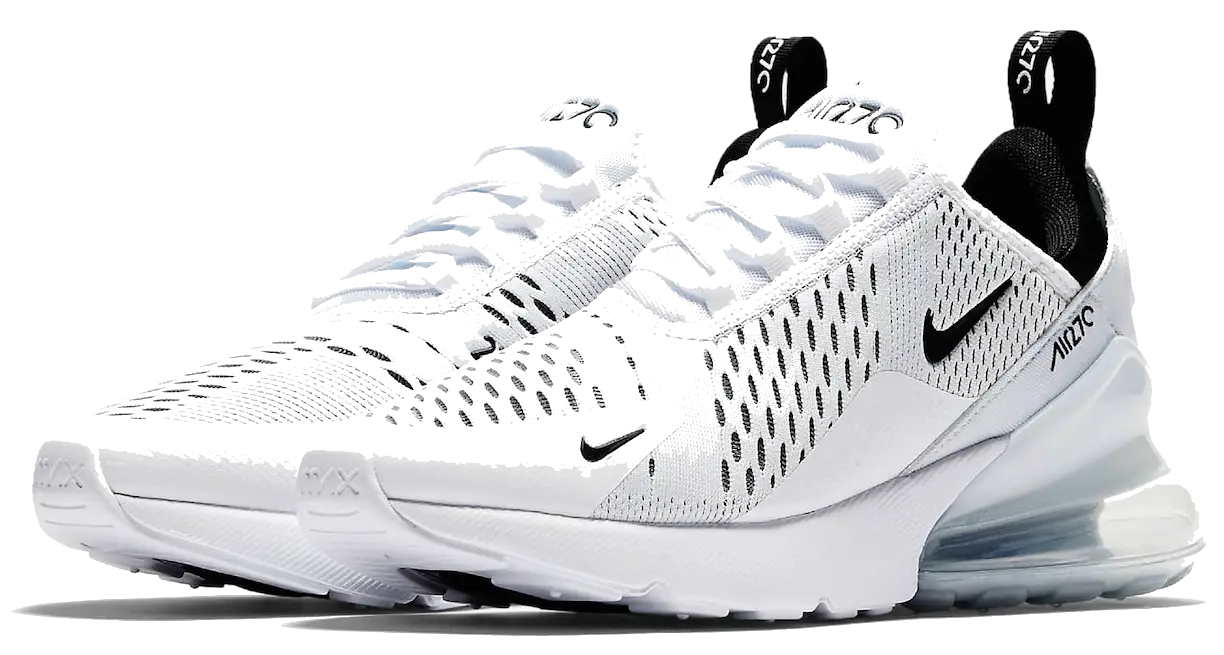
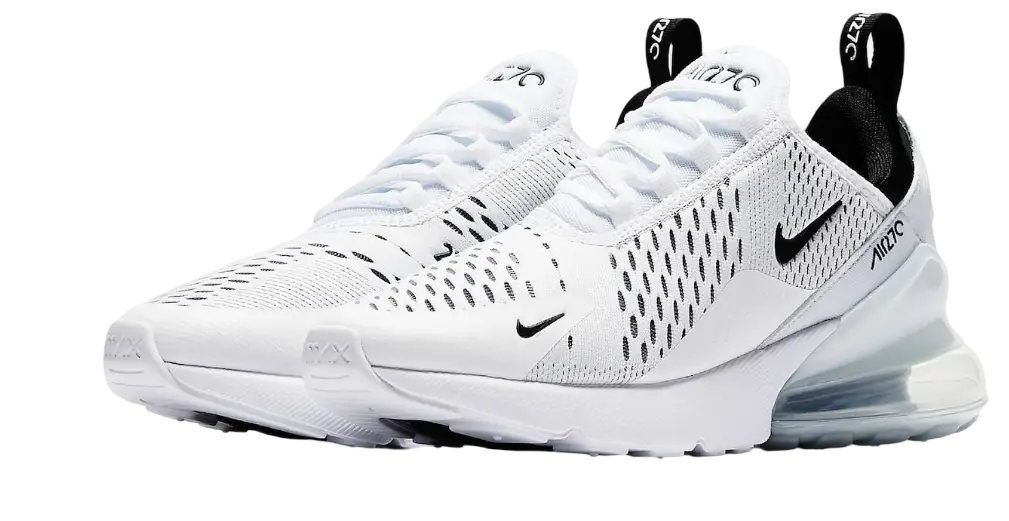
hero section adjustments

diff --git a/src/components/ProductSlider.jsx b/src/components/ProductSlider.jsx
@@ -2,7 +2,6 @@ import { useEffect, useRef, useState } from 'react';
 import NewProductsCard from './NewProductsCard';
 
 export const ProductSlider = ({ products }) => {
-  const marqueeRef = useRef(null);
   const containerRef = useRef(null);
   const [isHovering, setIsHovering] = useState(false);
   const animationRef = useRef(null);
@@ -11,10 +10,17 @@ export const ProductSlider = ({ products }) => {
   const scrollBackTimeoutRef = useRef(null);
   const isScrollingBackRef = useRef(false);
   const lastCardRef = useRef(null);
+  const isPausedRef = useRef(false);
+  const lastTimeRef = useRef(0);
+  const scrollSpeed = 1; // Adjust scroll speed here
 
   // Animation logic
-  const animate = () => {
-    if (isHovering || isScrollingBackRef.current) return;
+  const animate = (timestamp) => {
+    if (!lastTimeRef.current) lastTimeRef.current = timestamp;
+    const deltaTime = timestamp - lastTimeRef.current;
+    lastTimeRef.current = timestamp;
+
+    if (isScrollingBackRef.current || isPausedRef.current) return;
 
     const container = containerRef.current;
 
@@ -23,12 +29,13 @@ export const ProductSlider = ({ products }) => {
     const lastCardRect = lastCard?.getBoundingClientRect();
     const containerRect = container.getBoundingClientRect();
 
-    // Check if last card is fully visible (with 20px margin)
+    // Check if last card is fully visible (with 10px margin)
     const isLastCardVisible = lastCardRect && (lastCardRect.right <= containerRect.right - 10);
 
-    if (isLastCardVisible) {
+    if (isLastCardVisible && !isHovering) {
       // Pause for 3 seconds at the end
       if (!pauseTimeoutRef.current) {
+        isPausedRef.current = true;
         pauseTimeoutRef.current = setTimeout(() => {
           isScrollingBackRef.current = true;
           // Smoothly scroll back to start
@@ -41,21 +48,46 @@ export const ProductSlider = ({ products }) => {
           scrollBackTimeoutRef.current = setTimeout(() => {
             scrollPositionRef.current = 0;
             isScrollingBackRef.current = false;
+            isPausedRef.current = false;
             pauseTimeoutRef.current = null;
-            animationRef.current = requestAnimationFrame(animate);
-          }, 1000); // Match this with your scroll duration
+            lastTimeRef.current = 0;
+            if (!isHovering) {
+              animationRef.current = requestAnimationFrame(animate);
+            }
+          }, 1000);
         }, 3000);
       }
       return;
     }
 
-    // Normal scrolling
-    scrollPositionRef.current += 1; // Adjust speed here
+    // Skip animation frame if paused or hovering
+    if (isHovering || isPausedRef.current) {
+      return;
+    }
+
+    // Normal scrolling - adjust scroll speed based on frame rate
+    const scrollAmount = scrollSpeed * (deltaTime / 16); // Normalize to 60fps
+    scrollPositionRef.current += scrollAmount;
     container.scrollLeft = scrollPositionRef.current;
     animationRef.current = requestAnimationFrame(animate);
   };
 
-  // Initialize and clean up animation
+  // Handle hover state changes
+  useEffect(() => {
+    if (isHovering) {
+      // Pause animation when hovering
+      cancelAnimationFrame(animationRef.current);
+    } else {
+      // Resume animation when not hovering
+      lastTimeRef.current = 0;
+      if (!isPausedRef.current && !isScrollingBackRef.current) {
+        cancelAnimationFrame(animationRef.current);
+        animationRef.current = requestAnimationFrame(animate);
+      }
+    }
+  }, [isHovering]);
+
+  // Initialize animation
   useEffect(() => {
     if (products.length > 0) {
       // Reset state when products change
@@ -64,16 +96,20 @@ export const ProductSlider = ({ products }) => {
         containerRef.current.scrollLeft = 0;
       }
       isScrollingBackRef.current = false;
+      isPausedRef.current = false;
+      lastTimeRef.current = 0;
       
       // Start animation
+      cancelAnimationFrame(animationRef.current);
       animationRef.current = requestAnimationFrame(animate);
     }
+    
     return () => {
       cancelAnimationFrame(animationRef.current);
       clearTimeout(pauseTimeoutRef.current);
       clearTimeout(scrollBackTimeoutRef.current);
     };
-  }, [isHovering]);
+  }, [products.length]);
 
   return (
     <div 
@@ -84,11 +120,10 @@ export const ProductSlider = ({ products }) => {
     >
       {/* Marquee Container */}
       <div 
-        className='flex w-max lg:grid-cols-3 gap-2 md:gap-4 pl-14'
-        ref={marqueeRef}
+        className='flex w-max lg:grid-cols-3 gap-4 pl-14'
       >
         {/* Double the products for seamless looping */}
-        {[...products].map((item, index) => {
+        {[ ...products].map((item, index) => {
           // Mark the last card of the first set
           const isLastCard = index === products.length - 1;
           return (

diff --git a/src/sections/Hero.jsx b/src/sections/Hero.jsx
@@ -12,14 +12,14 @@ const Hero = ({  item }) => {
   const itemInCart = findItemInGroup(cart, item);
 
   return (
-    <div className="relative w-full h-fit lg:h-screen flex flex-col lg:grid grid-cols-7 py-20 mt-6 lg:mt-16 px-3 sm:px-8 md:px-16 lg:px-32 gap-2 md:gap-8 justify-around md:justify-evenly items-center bg-[#f6f6f6]">
+    <div className="group relative w-full h-fit lg:h-screen grid grid-cols-7 py-32 lg:py-20 mt-6 lg:mt-16 px-3 sm:px-8 md:px-16 lg:px-32 gap-2 md:gap-8 justify-evenly items-center bg-[#f6f6f6]">
       <motion.div
         initial={{ opacity: 0, y: -50 }}
         animate={{ opacity: 1, y: 0 }}
         transition={{ duration: 0.5 }}
         viewport={{ amount: 0.2 }}
-       className="col-span-full lg:col-span-3 lg:py-6 flex flex-col gap-2 md:gap-4 justify-center lg:justify-evenly lg:h-[550px] z-40 order-last lg:order-first lg:text-left text-justify">
-        <h1 className="w-fit z-40 bg-[#444]/10 hidden lg:block">
+       className="col-span-full md:col-span-5 bg-[#f6f6f6]/80 px-8 lg:pr-16 py-6 flex flex-col gap-2 md:gap-4 justify-center lg:justify-evenly lg:h-[550px] z-40 order-last lg:order-first lg:text-left text-justify">
+        <h1 className="w-fit z-40 bg-[#444]/10">
           <span className="text- animate-pulse text-accent-600">&#x3C;</span> Hottest
           Sale <span className="text-accent-600 animate-pulse">&#62;</span>
         </h1>
@@ -51,13 +51,13 @@ const Hero = ({  item }) => {
         initial={{ opacity: 0, y: 50 }}
         animate={{ opacity: 1, y: 0 }}
         transition={{ duration: 0.5, delay: 0.2 }}
-        className="lg:absolute right-0 col-span-full lg:col-span-4 order-first lg:order-last z-30">
-        <h1 className="w-fit sm:mt-0 md:mt-14 lg:mt-0 z-40 bg-[#444]/10 text-sm lg:hidden">
+        className="absolute bottom-10 right-0 col-span-4 pr-16 lg:z-50 group-hover:z-30">
+        {/* <h1 className="w-fit sm:mt-0 md:mt-14 lg:mt-0 z-40 bg-[#444]/10 text-sm lg:hidden">
           <span className="text- animate-pulse text-accent-600">&#x3C;</span> Hottest
           Sale <span className="text-accent-600 animate-pulse">&#62;</span>
-        </h1>
-        <div className="w-fit flex justify-center lg:justify-end items-center mr-32">
-          <img src={image} alt="Product image" className="min-w-[200px] lg:min-w-[750px] max-w-[60%]"/>
+        </h1> */}
+        <div className="w-full flex justify-end items-center mr-32">
+          <img src={image} alt="Product image" className="min-w-[750px] max-w-[90%] -rotate-12"/>
         </div>
       </motion.div>
     </div>

diff --git a/src/components/Button.jsx b/src/components/Button.jsx
@@ -2,7 +2,7 @@ import React from 'react'
 
 const Button = ({ title, operation, variants, handleClick }) => {
   return (
-    <button className={`w-full md:max-w-[300px] min-w-fit flex items-center justify-center font-medium gap-4 px-5 py-3 lg:px-10 md:py-4 lg:w-[80%] rounded-lg text-xs md:text-base ${operation ? "bg-primary-600 text-white" : "bg-black/90 text-white hover:bg-primary-600 hover:text-[#fff] shadow-md"} duration-150`} onClick={()=>  handleClick()}>
+    <button className={`w-full md:max-w-[300px] min-w-fit flex items-center justify-center font-medium gap-4 px-5 py-3 lg:px-10 md:py-4 lg:w-[80%] rounded-lg text-xs md:text-base ${operation ? "bg-primary-600 hover:bg-primary-700 text-white" : "bg-black/90 text-white hover:bg-primary-600 hover:text-[#fff] shadow-md"} duration-150`} onClick={()=>  handleClick()}>
       <i className={`bi ${!operation ? "bi-bag" : "bi-bag-check-fill"} sm:text-lg md:text-2xl`}></i> 
       <span className={variants}>{title}</span>
     </button>

diff --git a/src/context/AppContext.jsx b/src/context/AppContext.jsx
@@ -54,7 +54,7 @@ export function AppProvider({ children }) {
   const headerProduct = {
     id: 26,
     category: "men's clothing",
-    description: "Legendary Air gets lifted First lifestyle Air Max brings you styke, comfort and 270 degrees of Air. Its tinted Air window lets you showcase one of our greatest innovations.",
+    description: "Legendary Air gets lifted First lifestyle Air Max brings you style, comfort and 270 degrees of Air. Its tinted Air window lets you showcase one of our greatest innovations.",
     image: Shoe,
     price: 109.95,
     rating: {rate: 3.9, count: 120},
